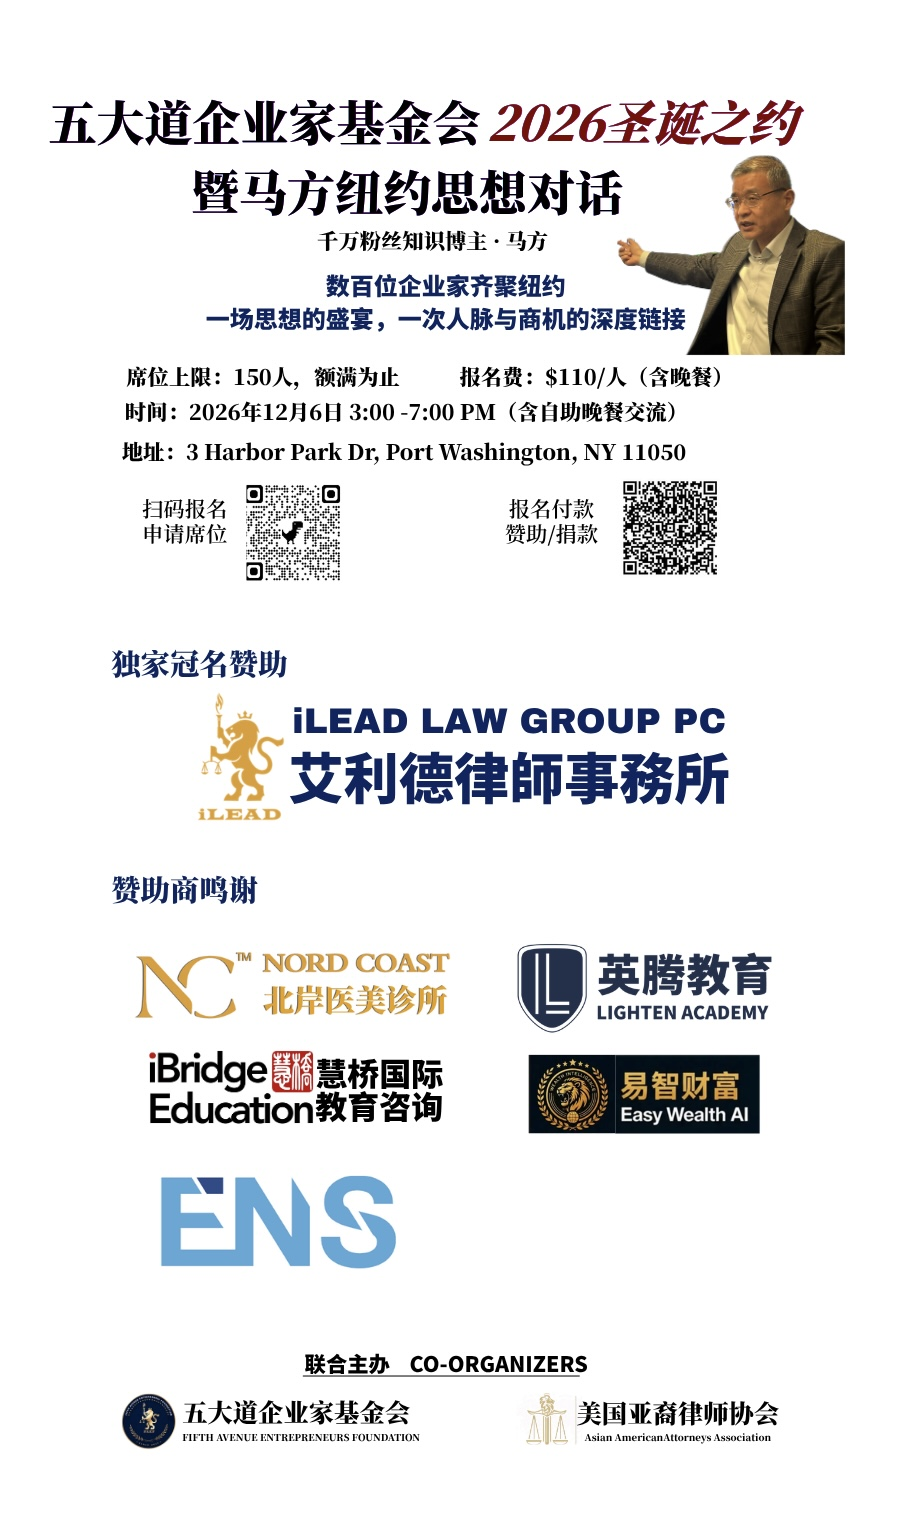
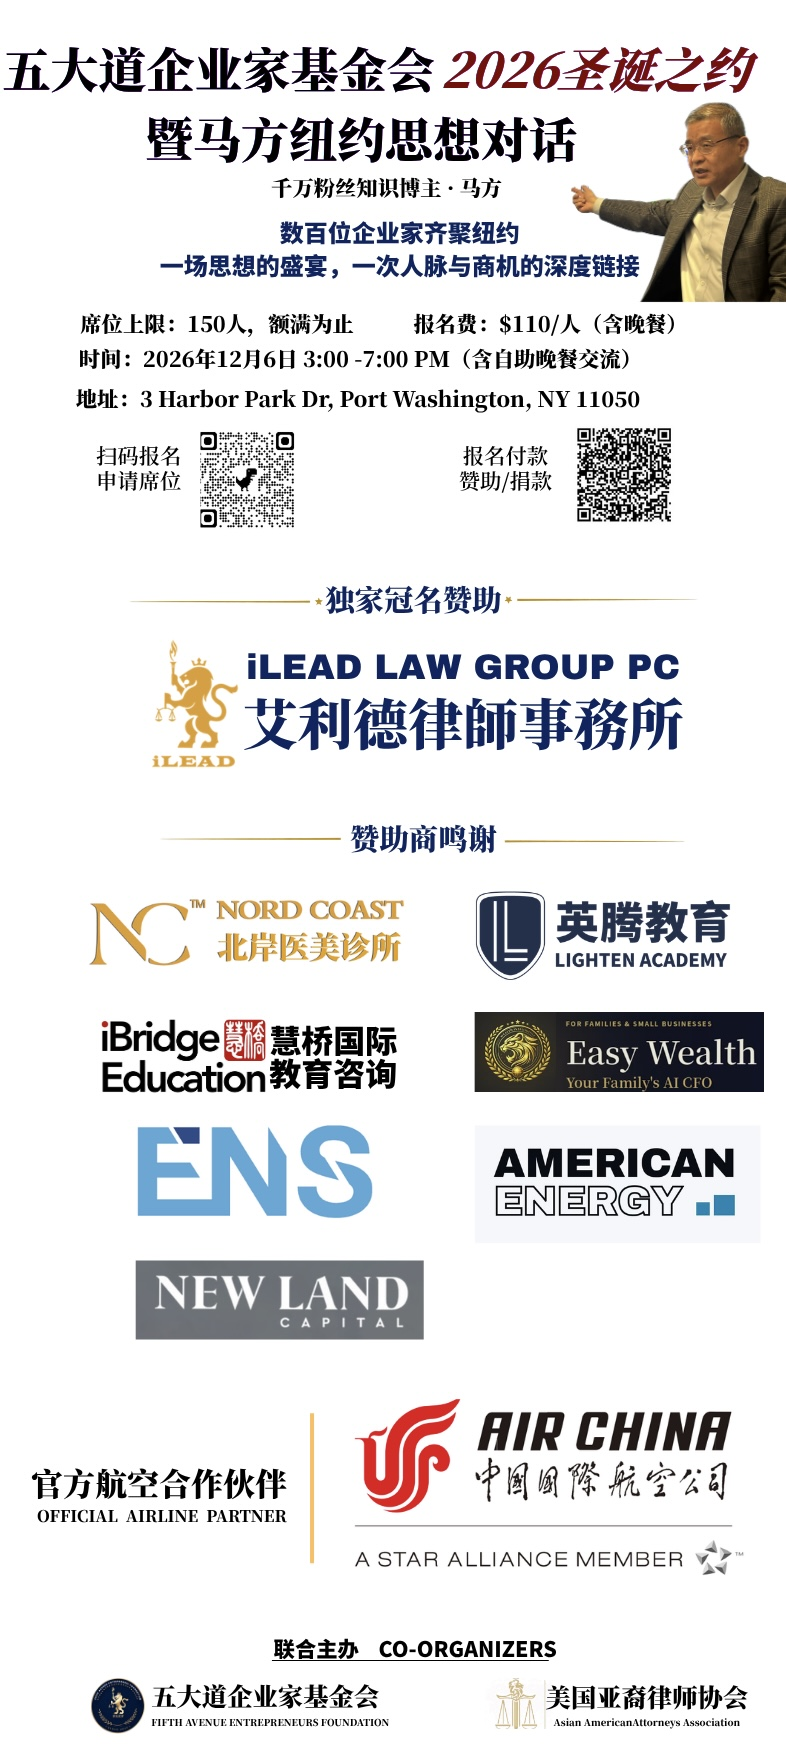
Update daily editions footer advertisement with November 20 event poster

diff --git a/daily/2026-11-19-ny.html b/daily/2026-11-19-ny.html
@@ -394,7 +394,7 @@
 </section>
 <section class="issue-ad" aria-label="特别刊登">
   <header><h2>特别刊登<span lang="en">SPECIAL ADVERTISING</span></h2><p>品牌展示 · 活动推广 · 机构宣传</p></header>
-  <figure><img src="../images/daily/faef-christmas-2026-sponsors.jpg" width="900" height="1527" loading="lazy" decoding="async" alt="五大道企业家基金会 2026 圣诞之约暨马方纽约思想对话活动海报，含活动时间、地点及报名和付款二维码"></figure>
+  <figure><img src="../images/daily/faef-christmas-2026-sponsors.jpg?v=20261120" width="786" height="1747" loading="lazy" decoding="async" alt="五大道企业家基金会 2026 圣诞之约暨马方纽约思想对话活动海报，含活动时间、地点及报名和付款二维码"></figure>
 </section>
 <!-- =========================
        刊期导航

diff --git a/daily/2026-11-19.html b/daily/2026-11-19.html
@@ -370,7 +370,7 @@
 
   <section class="issue-ad" aria-label="特别刊登">
   <header><h2>特别刊登<span lang="en">SPECIAL ADVERTISING</span></h2><p>品牌展示 · 活动推广 · 机构宣传</p></header>
-  <figure><img src="../images/daily/faef-christmas-2026-sponsors.jpg" width="900" height="1527" loading="lazy" decoding="async" alt="五大道企业家基金会 2026 圣诞之约暨马方纽约思想对话活动海报，含活动时间、地点及报名和付款二维码"></figure>
+  <figure><img src="../images/daily/faef-christmas-2026-sponsors.jpg?v=20261120" width="786" height="1747" loading="lazy" decoding="async" alt="五大道企业家基金会 2026 圣诞之约暨马方纽约思想对话活动海报，含活动时间、地点及报名和付款二维码"></figure>
 </section>
 <!-- =========================
        刊期导航
